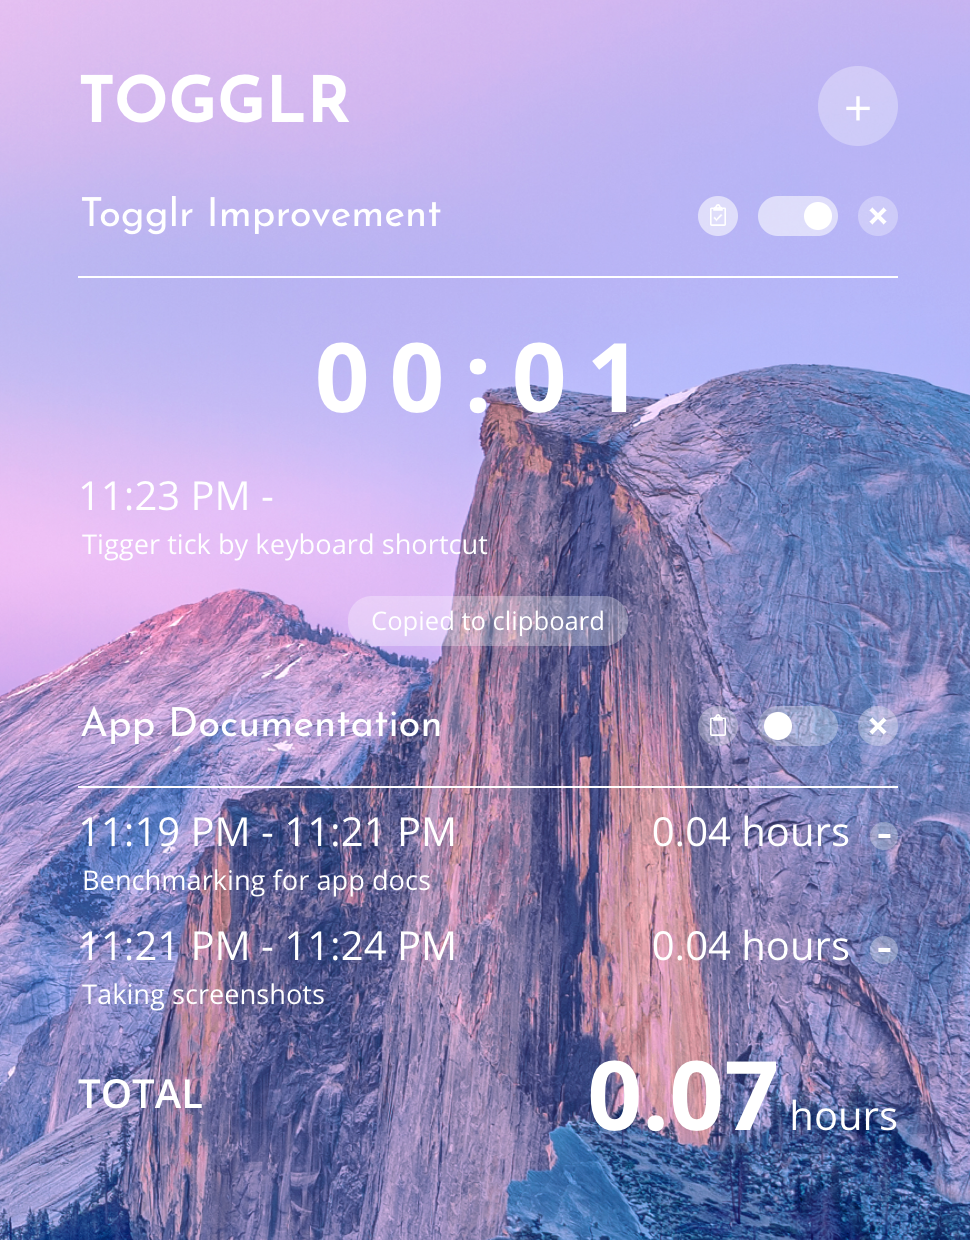
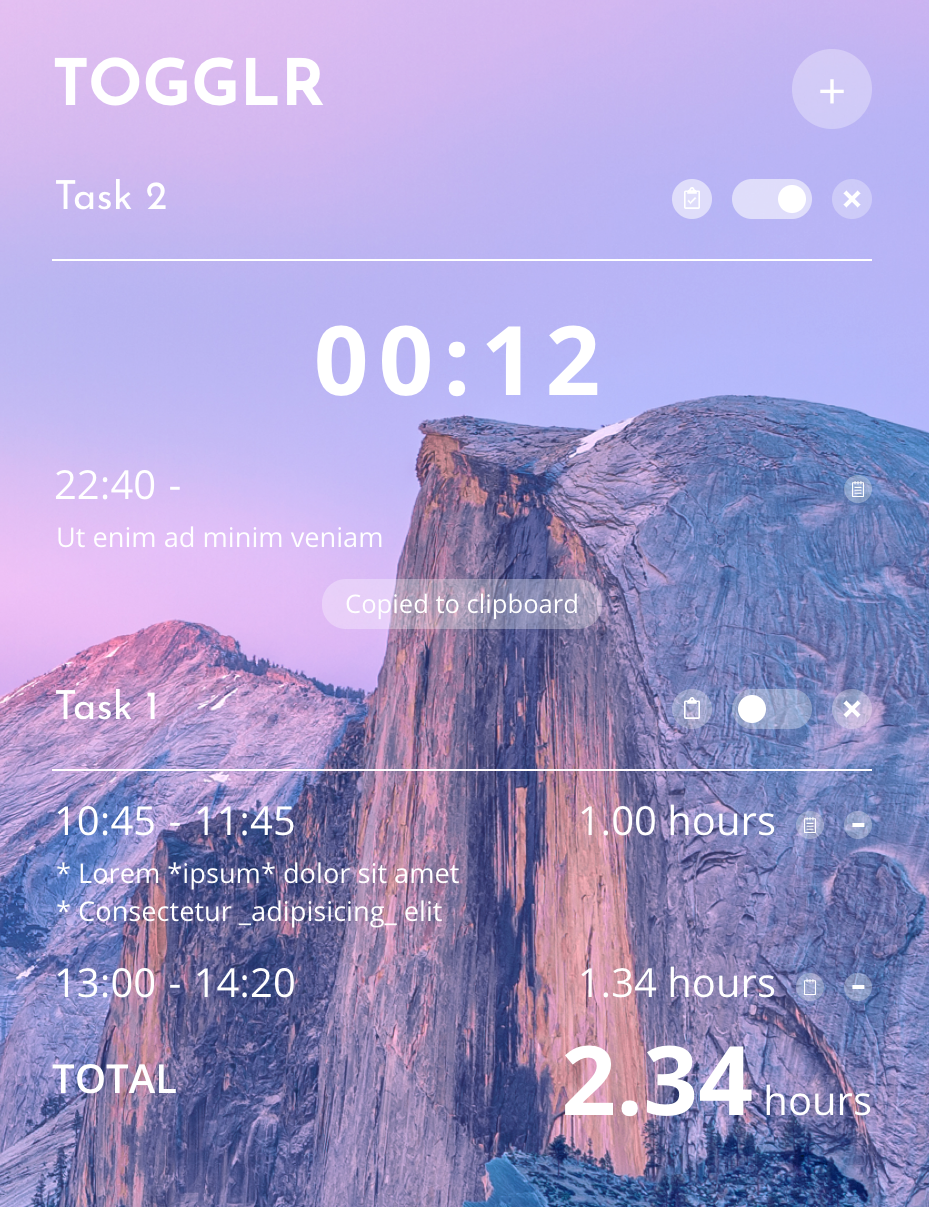
update readme and app-demo image

diff --git a/README.md b/README.md
@@ -2,5 +2,14 @@
 
 A simple desktop time tracking widget build with [Electron](https://electronjs.org/) and [Angular CLI](https://github.com/angular/angular-cli).
 
+## Features
+- Task management (**add**/**remove**)
+- Timeslot management of task (**add**/**remove**/**update**/**add note**)
+- Displays a timer for the active timeslot (increments by **minute**)
+- Displays timeslot duration (**in hours**)
+- Displays a total duration for the task (**in hours**)
+- Copy task notes to clipboard
+
+
 ## App Demo
-![app-demo](https://github.com/ZiliZhang/togglr/blob/master/app-demo.png?)
+<img src="https://github.com/ZiliZhang/togglr/blob/master/app-demo.png" alt="app-demo" width="500"/>
